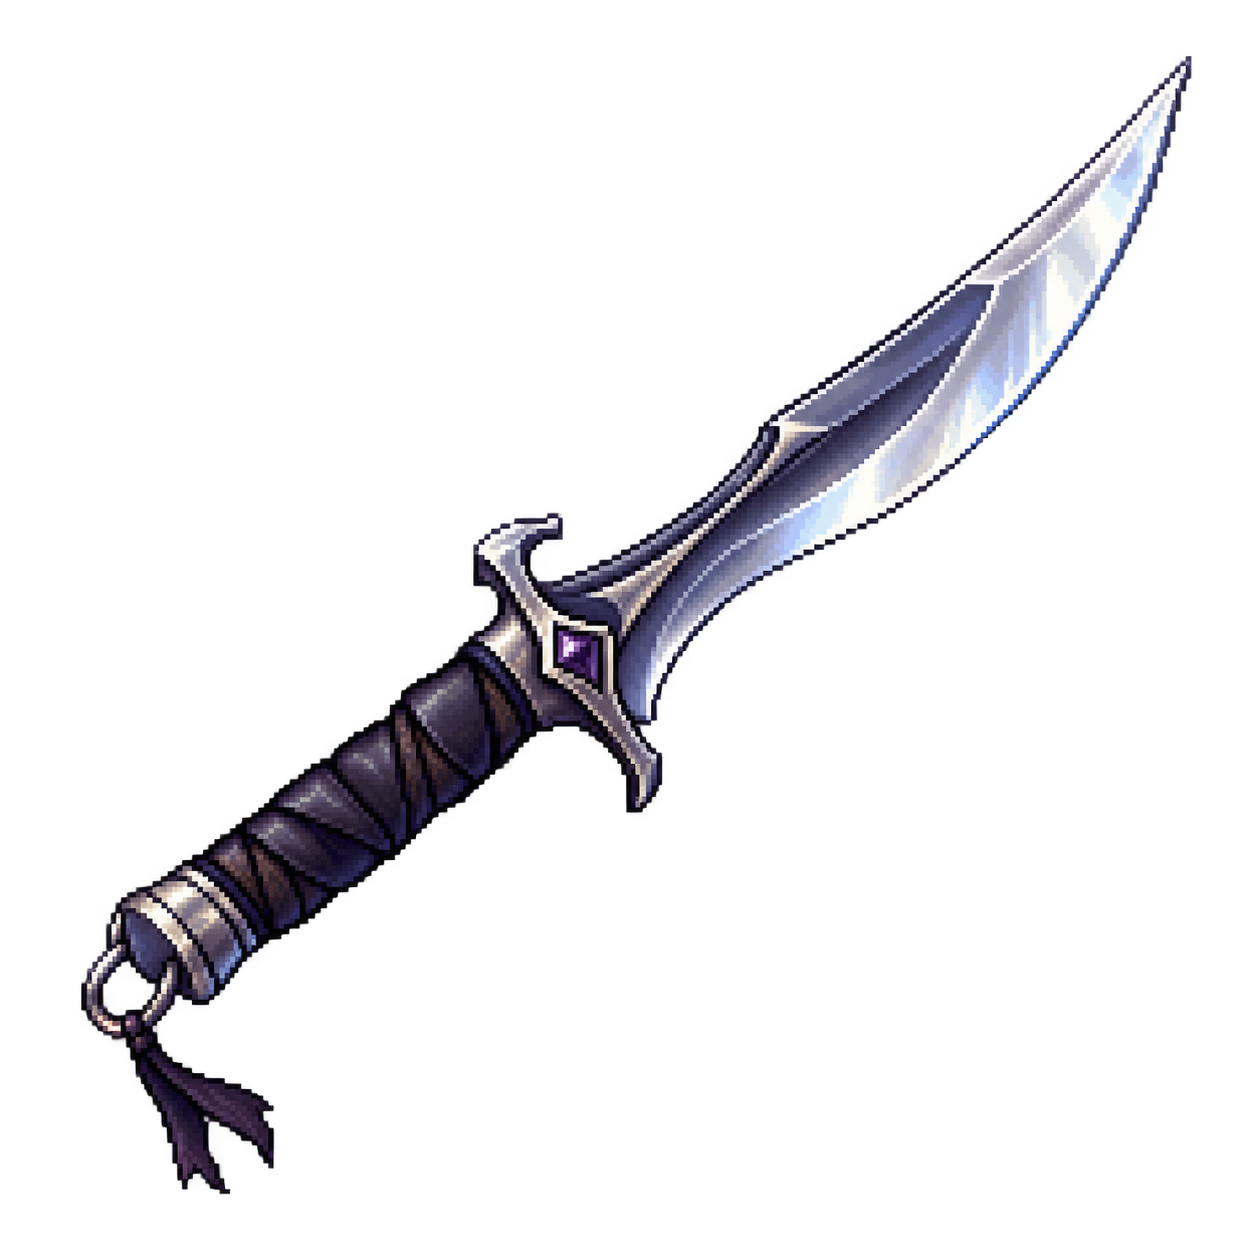
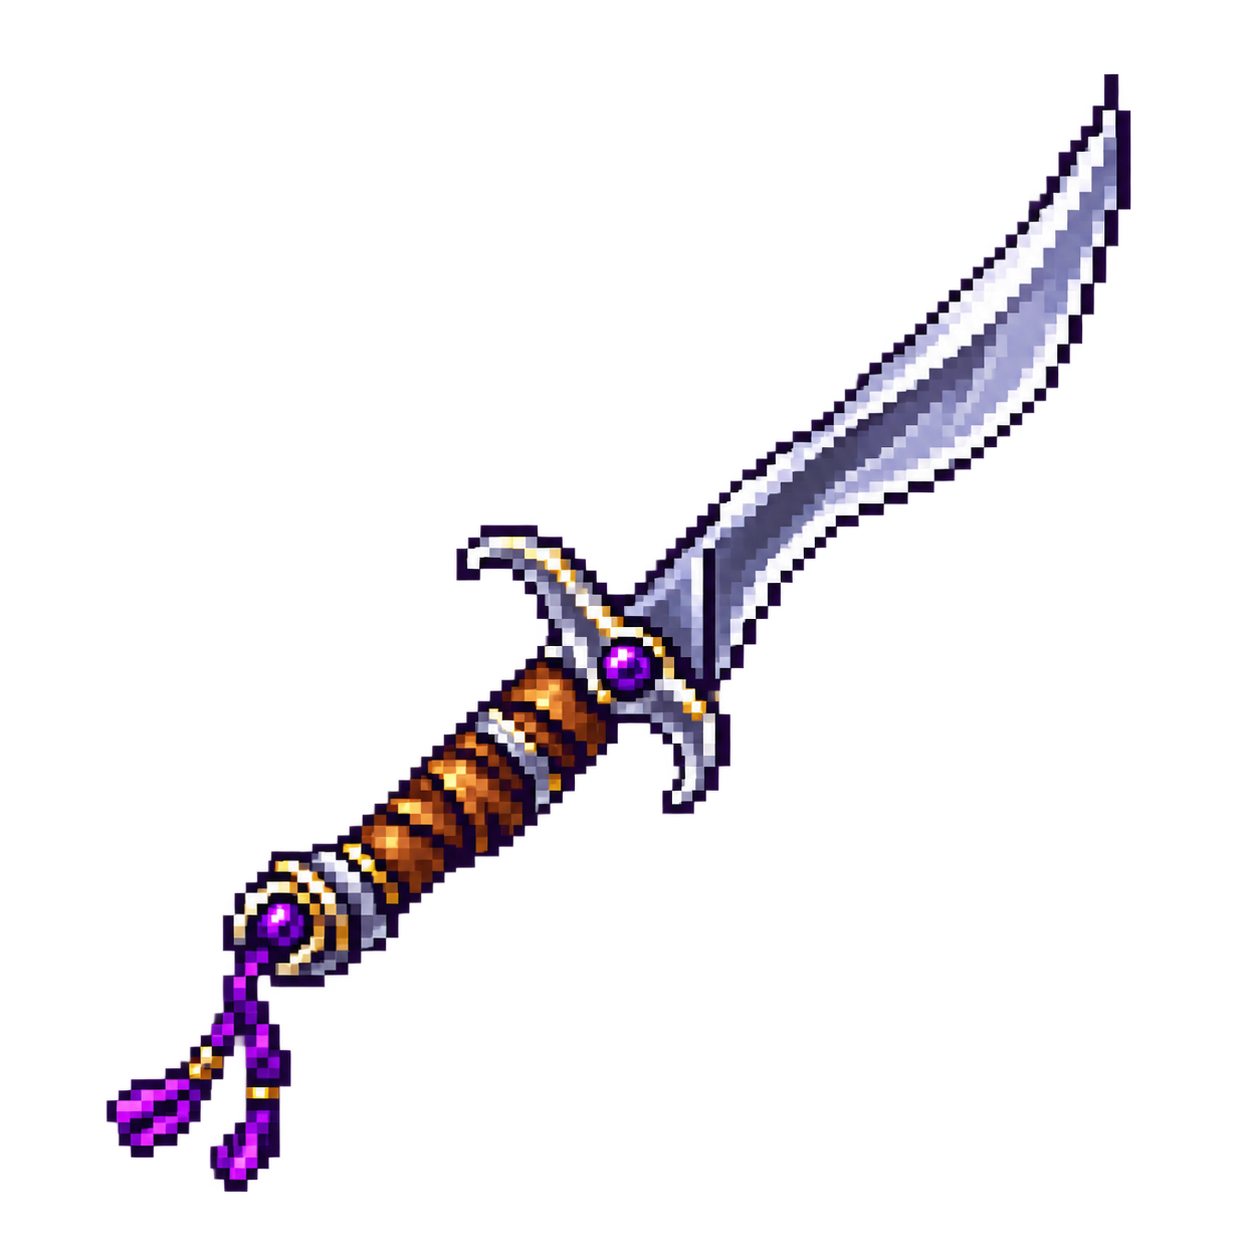
Relic Refresh

Changed region(s): [[0.0622, 0.0311, 0.9641, 0.9641]]

diff --git a/frontend/src/player/Inventory.jsx b/frontend/src/player/Inventory.jsx
@@ -157,7 +157,7 @@ export default function Inventory({ data, overview, onDetail, onRefresh }) {
           {recoveryState?.active_statuses?.length ? <div className="recovery-callout"><strong>Active Battle status</strong><span>{recoveryState.active_statuses.map((status) => `${status.name} (${status.turns}r)`).join(" · ")} — use status-curing items during battle.</span></div> : null}
           <div className="recovery-actions-row">
             <button type="button" className="equipment-action-button" disabled={!recoveryActionsAvailable || Boolean(busyKey) || recoveryState?.state === "in_battle" || recoveryState?.state === "resting"} onClick={startRest}>{busyKey === "start-rest" ? "Starting…" : recoveryState?.state === "resting" ? "Already Resting" : "Start Camp"}</button>
-            <span className="recovery-usable-summary">{recoveryItems.length ? `${recoveryItems.length} recovery ${recoveryItems.length === 1 ? "item" : "items"} usable now` : "No item recovery needed right now"}</span>
+            <span className="recovery-usable-summary">Camp: 15m LIVE · 1h OFFLINE · {recoveryItems.length ? `${recoveryItems.length} recovery ${recoveryItems.length === 1 ? "item" : "items"} ready` : "no item recovery needed"}</span>
           </div>
           {recoveryMessage ? <div className="recovery-result" aria-live="polite">{recoveryMessage}</div> : null}
           {recoveryItems.length ? <div className="recovery-quick-grid">{recoveryItems.map((item) => <button type="button" className="recovery-quick-action" key={item.id} aria-label={`Use ${item.name}`} disabled={!recoveryActionsAvailable || Boolean(busyKey)} onClick={() => useRecoveryItem(item)}><ItemArtwork item={item} className="recovery-item-artwork" /><span className="recovery-quick-copy"><strong className={`item-name rarity-${item.rarity}`}>{item.name}</strong><small>{quickRecoveryText(item)}</small></span><span className="recovery-quick-meta">Owned {number(item.quantity)} · {busyKey === `use:${item.id}` ? "Using…" : "Use"}</span></button>)}</div> : <div className="muted recovery-empty">{recoveryState ? "No recovery item can be used right now." : "Recovery options will appear here when available."}</div>}

diff --git a/frontend/src/player/Hunts.jsx b/frontend/src/player/Hunts.jsx
@@ -554,13 +554,13 @@ export default function Hunts({ data, overview, onRefresh }) {
           <div><p className="eyebrow">Camp & Recovery</p><h2>{state?.camp?.resting ? `Resting · ${duration(remainingUntil(state.camp.until, clock))}` : "Set Up Camp"}</h2></div>
           <span className={`small-badge ${state?.camp?.resting ? "success" : state?.camp?.can_start ? "ready" : ""}`}>{state?.camp?.resting ? "Resting" : state?.camp?.can_start ? "Ready" : "Unavailable"}</span>
         </div>
-        <p className="muted">Camp restores HP and your current Job’s MP/AP after the normal rest timer. You cannot adventure while resting.</p>
+        <p className="muted">Camp restores HP and your current Job’s MP/AP. Base time is 15 minutes while stream is LIVE and 1 hour while OFFLINE; Fellowship bonuses may shorten it. You cannot adventure while resting.</p>
         {state?.camp ? (
           <div className="adventure-camp-grid">
             <div><span>HP</span><strong>{number(state.camp.hp)} / {number(state.camp.max_hp)}</strong></div>
             {Number(state.camp.max_mp || 0) > 0 ? <div><span>MP</span><strong>{number(state.camp.mp)} / {number(state.camp.max_mp)}</strong></div> : null}
             {Number(state.camp.max_ap || 0) > 0 ? <div><span>AP</span><strong>{number(state.camp.ap)} / {number(state.camp.max_ap)}</strong></div> : null}
-            <div><span>Rest timer</span><strong>{duration(state.camp.duration_seconds)}</strong></div>
+            <div><span>{state.camp.stream_live ? "LIVE Camp" : "OFFLINE Camp"}</span><strong>{duration(state.camp.duration_seconds)}</strong></div>
           </div>
         ) : null}
         <div className="venture-action-row">

diff --git a/frontend/src/player/whatsNewData.js b/frontend/src/player/whatsNewData.js
@@ -12,7 +12,8 @@ export const MAJOR_UPDATES = [
       { title: "Material artwork complete", description: "All 84 current materials now resolve to valid inventory artwork, including the final 19 dedicated SNES-style PNG identities added in this checkpoint." },
       { title: "Facility supplies rebalanced", description: "Ancient Coin, Hi-Potion, Mythril Ore, Wyvern Scale, Elemental Crystal, and Demon Horn now have multiple level-appropriate monster sources instead of late single-source progression gates." },
       { title: "Choose your Chocobo portrait", description: "Registered Chocobos can now use one of ten SNES-style companion portraits. Your choice is saved to the Guild and shown when other adventurers view your Stable." },
-      { title: "Relics now evolve visually", description: "All eight Relic weapon questlines now show stage-aware Dormant, Awakened, and Zenith artwork across the Relic Arsenal, details, Trophy Hall, and Player Guide." },
+      { title: "Relics now evolve visually", description: "All eight Relic weapon questlines now use the regenerated Tier 1, Tier 2, and final Tier 3 artwork across the Relic Arsenal, details, Trophy Hall, and Player Guide." },
+      { title: "Camp follows the stream", description: "Camp now uses a 15-minute base timer while Twitch is LIVE and a 1-hour base timer while OFFLINE, with existing Fellowship Camp-time reductions preserved." },
     ],
     action: { tab: "inventory", label: "View Equipment & Inventory" },
   },

diff --git a/frontend/public/guide-body.html b/frontend/public/guide-body.html
@@ -211,7 +211,7 @@
        <code>
         !rest
        </code>
-       for a free 30-minute full heal or
+       for a free stream-aware Camp recovery (15m LIVE / 1h OFFLINE base) or
        <code>
         !use tent
        </code>
@@ -513,11 +513,7 @@
          <code>
           !camp
          </code>
-         starts a
-         <b>
-          30-minute
-         </b>
-         rest. You cannot Venture, Hunt, join encounters or raid while resting. When complete, you return at full current maximum HP.
+         starts a stream-aware rest: <b>15 minutes while the channel is LIVE</b> and <b>1 hour while OFFLINE</b>. Existing Fellowship/Infirmary Camp-time reductions can shorten those base timers. You cannot Venture, Hunt, join encounters or raid while resting. When complete, you return at full current maximum HP, MP and AP.
         </p>
        </div>
        <div class="card">

diff --git a/frontend/public/raid-overlay.html b/frontend/public/raid-overlay.html
@@ -33,6 +33,6 @@ body{display:grid;align-items:start;justify-items:center}
   <div class="row"><div id="hp"></div><div id="phase"></div><div id="status"></div></div>
   <div id="top"></div>
 </div>
-<script src="/raid-overlay.js?v=1.1.19-retro-phase-iii14-rc1h3" defer></script>
+<script src="/raid-overlay.js?v=1.1.19-retro-phase-iii14-rc1h4" defer></script>
 </body>
 </html>

diff --git a/frontend/src/version.js b/frontend/src/version.js
@@ -2,4 +2,4 @@ export const WEB_VERSION = "v1.1.19";
 export const WEB_BUILD = "Retro Phase III";
 export const WEB_RELEASE = `${WEB_VERSION} — ${WEB_BUILD}`;
 export const WEB_PRODUCT = `Crystal Guild Web ${WEB_RELEASE}`;
-export const WEB_ASSET_REVISION = "1.1.19-retro-phase-iii14-rc1h3";
+export const WEB_ASSET_REVISION = "1.1.19-retro-phase-iii14-rc1h4";

diff --git a/tests/test_hosted_portal.py b/tests/test_hosted_portal.py
@@ -175,7 +175,7 @@ class PortalServerCase(unittest.TestCase):
         self.assertEqual(status, 200)
         self.assertTrue(payload["ok"])
         self.assertIn("1.1.19", payload["version"])
-        self.assertEqual(payload["frontend_asset_revision"], "1.1.19-retro-phase-iii14-rc1h3")
+        self.assertEqual(payload["frontend_asset_revision"], "1.1.19-retro-phase-iii14-rc1h4")
         self.assertEqual(payload["database"], "ok")
         self.assertIn("sync_age_seconds", payload)
         self.assertIn("sync_connected", payload)

diff --git a/crystal_guild/hosted_portal.py b/crystal_guild/hosted_portal.py
@@ -24,7 +24,7 @@ from .trophy_hall import build_trophy_hall
 
 
 HOSTED_PORTAL_VERSION = "1.1.19-retro-phase-iii-rc1"
-FRONTEND_ASSET_REVISION = "1.1.19-retro-phase-iii14-rc1h3"
+FRONTEND_ASSET_REVISION = "1.1.19-retro-phase-iii14-rc1h4"
 SCHEMA_VERSION = 1
 ACTION_PROTOCOL_VERSION = 15
 ALLOWED_PORTAL_ACTIONS = {

diff --git a/RELEASE_NOTES.md b/RELEASE_NOTES.md
@@ -1,32 +1,26 @@
-# Crystal Guild v1.1.19 Retro Phase III RC1 Hotfix 3 — Relic Visuals
+# Crystal Guild v1.1.19 Retro Phase III RC1 Hotfix 4 — Relic Refresh + Dynamic Camp
 
-## Summary
-This web-only visual hotfix builds the three-stage Relic weapon artwork into the live Portal and Player Guide while preserving gameplay, progression, databases, and Portal Action behavior.
+## Relic artwork refresh
+All eight Relic questlines now use the newly regenerated three-tier weapon progression. Tier 1 is deliberately restrained, Tier 2 adds visible ornamentation, and Tier 3 is the fully legendary final form. Each stage remains a separate transparent PNG and keeps the existing stage-aware routing throughout the Portal and Player Guide.
 
-## Relic artwork
-- Adds a dedicated `relic-weapons-v1` artwork family for all eight Relic questlines: Gae Bolg, Excalibur, Apocalypse, Godhand, Masamune, Stardust Rod, Nirvana, and Last Knife.
-- Every Relic now has explicit Dormant, Awakened, and Zenith artwork routing (24 PNG assets total).
-- Awakened visuals use the completed Batch 2 weapon artwork.
-- Zenith visuals use the completed Batch 3 final-form artwork.
-- Dormant visuals retain restrained canonical weapon art so each progression path has a complete visual ladder without changing item identity.
+Relics covered: Gae Bolg, Excalibur, Apocalypse, Godhand, Masamune, Stardust Rod, Nirvana, and Last Knife.
 
-## Where Relic visuals now appear
-- Adventurer Portal Relic Arsenal cards, using the hero's current Relic stage.
-- Relic detail dialog.
-- Trophy Hall completed Relics and featured Relic trophies, fixed to Zenith artwork.
-- Player Guide Relic catalog cards, previewing the Zenith final form.
-- Player Guide Relic dossiers, showing the correct artwork beside every Dormant / Awakened / Zenith stage reward.
-- Shared item artwork routing, so Relic reward weapons display their dedicated art anywhere the standard item artwork component is used.
+## Stream-aware Camp
+Camp now uses a stream-aware base duration in the authoritative Bot runtime:
+- Twitch LIVE: 15 minutes.
+- Twitch OFFLINE: 1 hour.
+- Unknown/unconfirmed Twitch state fails closed to the OFFLINE timer.
+- Existing Fellowship/Infirmary Camp-time reductions remain applied to the selected base duration.
 
-## UI treatment
-Relic images use `object-fit: contain`, transparent PNG backgrounds, compact framed presentation, and responsive sizing so long weapons remain visible without cropping on desktop or mobile.
+The Adventure Board shows whether the currently quoted Camp timer is LIVE or OFFLINE, and the Player Guide/Recovery copy explains the new rule.
 
 ## Compatibility
-- Web-only hotfix.
-- Runtime identity remains `1.1.19-retro-phase-iii-rc1`.
-- Frontend asset revision: `1.1.19-retro-phase-iii14-rc1h3`.
-- Local DB schema: unchanged.
+- Web asset revision: `1.1.19-retro-phase-iii14-rc1h4`.
+- Bot runtime: `1.1.19-retro-phase-iii-rc1h4`.
+- Local database schema: unchanged.
 - Hosted sync schema: unchanged.
-- Portal Action protocol: unchanged.
+- Portal Action protocol: 15 unchanged.
 - Twitch command prefix: `!` unchanged.
-- No database migration, player reset, OAuth reauthorization, or new environment variables required.
+- No player reset, database migration, OAuth reauthorization, or new required environment variables.
+
+Because Camp timing is authoritative in the Bot, deploy both the Web and Bot Hotfix 4 packages.

diff --git a/VALIDATION_REPORT.md b/VALIDATION_REPORT.md
@@ -1,22 +1,17 @@
-# Validation Report — RC1 Hotfix 3 Relic Visuals
+# Validation Report — RC1 Hotfix 4 Relic Refresh + Dynamic Camp
 
 ## Result
 PASS
 
 ## Verified
-- 8 canonical Relic questlines are represented.
-- 3 stage visuals are packaged for each Relic: Dormant, Awakened, Zenith.
-- 24/24 Relic PNG assets exist, use RGBA transparency, and resolve through the dedicated artwork routes.
-- All Relic stage reward item IDs resolve to `/retro-phase-iii/relic-weapons-v1/<item_id>.png`.
-- Relic Arsenal cards use stage-aware artwork.
-- Trophy Hall completed/featured Relics use Zenith artwork.
-- Relic detail dialog displays stage-aware artwork.
-- Player Guide Relic cards preview Zenith art and stage dossiers show each stage reward art.
-- Responsive CSS uses contained artwork rather than crop/cover behavior.
-- Frontend revision is `1.1.19-retro-phase-iii14-rc1h3` in the shared frontend version source and hosted health response.
+- 24/24 regenerated Relic PNGs are present under `frontend/public/retro-phase-iii/relic-weapons-v1/`.
+- All 24 assets are RGBA PNGs with transparent pixels and valid stage-aware filenames.
+- Tier progression is preserved for all eight Relics: Dormant / Awakened / Zenith.
+- Adventure Board exposes LIVE/OFFLINE Camp mode and authoritative effective duration returned by the Bot.
+- Player Guide and Recovery copy document the 15m LIVE / 1h OFFLINE base rule.
+- Frontend asset revision is `1.1.19-retro-phase-iii14-rc1h4`.
 
 ## Automated checks
-- Frontend Node unit suite: 286 passed, 0 failed.
-- Python hosted Portal/action suite: 46 passed, 0 failed (with project root on `PYTHONPATH`).
-- JavaScript syntax checks for non-JSX modified modules: PASS.
-- Local Vite production compilation was not executed in this environment because frontend npm dependencies are intentionally not vendored in the Web package and network dependency installation was unavailable. The package Dockerfile continues to install pinned dependencies and run `npm run build` during deployment.
+- Frontend Node tests: 288 passed, 0 failed.
+- Hosted Portal Python tests: 46 passed, 0 failed.
+- Paired Bot runtime tests: 394 passed, 0 failed.

diff --git a/README.md b/README.md
@@ -8,18 +8,18 @@ RC1 finalizes the Retro Phase III Web presentation while retaining Chocobo portr
 - The selected portrait is visible on both the owner Stable and read-only public Chocobo cards.
 - Existing Chocobos migrate to Classic Gold automatically; Bond, traits, names, and progression are untouched.
 
-## RC1 Hotfix 3 — Relic Visuals
-- All eight Relic weapon lines now have a complete three-stage visual route: Dormant, Awakened, and Zenith.
-- Dedicated Relic art is surfaced in the Relic Arsenal, Relic detail dialog, Trophy Hall, Player Guide Relic cards/dossiers, and shared item-art locations.
-- 24 transparent PNG stage assets are packaged under `frontend/public/retro-phase-iii/relic-weapons-v1/`.
-- This remains a Web-only visual update; gameplay and persistent progression are unchanged.
+## RC1 Hotfix 4 — Relic Refresh + Dynamic Camp
+- All eight Relic weapon lines use the newly regenerated Tier 1 / Tier 2 / Tier 3 transparent PNG progression.
+- Dedicated Relic art remains surfaced in the Relic Arsenal, Relic detail dialog, Trophy Hall, Player Guide Relic cards/dossiers, and shared item-art locations.
+- Camp now uses a 15-minute base timer while Twitch is LIVE and a 1-hour base timer while OFFLINE; existing Fellowship Camp-time reductions remain in force.
+- The Camp rule is authoritative in the paired RC1H4 Bot runtime, so deploy the Web and Bot updates together.
 
 ## Technical identity
 - Hosted Web runtime: `1.1.19-retro-phase-iii-rc1`
-- Frontend asset revision: `1.1.19-retro-phase-iii14-rc1h3`
+- Frontend asset revision: `1.1.19-retro-phase-iii14-rc1h4`
 - Portal Action protocol: `15`
 - Hosted sync schema: `1`
-- Paired Bot runtime: `1.1.19-retro-phase-iii-rc1`
+- Paired Bot runtime: `1.1.19-retro-phase-iii-rc1h4`
 - Local Bot DB schema: `6`
 
 ## Facility supply balance

diff --git a/UPGRADE_GUIDE.md b/UPGRADE_GUIDE.md
@@ -1,8 +1,10 @@
-# Upgrade Guide — RC1 Hotfix 3 Relic Visuals
+# Upgrade Guide — RC1 Hotfix 4 Relic Refresh + Dynamic Camp
 
-1. Back up the currently deployed Web source.
-2. Replace it with the full RC1 Hotfix 3 Web package, or apply the included `rc1h2 -> rc1h3` Web patch.
-3. Redeploy normally. Render/Docker will install the pinned frontend dependencies and run the Vite production build during deployment.
-4. Hard-refresh the Portal once after deployment so the `1.1.19-retro-phase-iii14-rc1h3` asset revision is picked up.
-5. Verify the Relic Arsenal, one Relic detail dialog, the Trophy Hall, and Player Guide Relic section show weapon artwork without cropping.
-6. No database migration, Bot reset, OAuth change, or environment-variable change is required.
+1. Back up the current Web deployment and local Bot database/configuration.
+2. Deploy the full RC1H4 Web package, or apply the `rc1h3 -> rc1h4` Web patch.
+3. Apply the paired RC1H4 Bot package/patch. The Web UI can describe the new Camp rule, but the Bot is the authoritative timer owner.
+4. Restart/redeploy the Bot and Web normally. No migration command is required.
+5. Hard-refresh the Portal once so asset revision `1.1.19-retro-phase-iii14-rc1h4` is loaded.
+6. Verify one Relic at each stage, then test Camp while Twitch is OFFLINE (1-hour base) and LIVE (15-minute base). Existing Fellowship Camp-time reductions may shorten the displayed effective timer.
+
+No database reset, OAuth change, or new environment variable is required.
